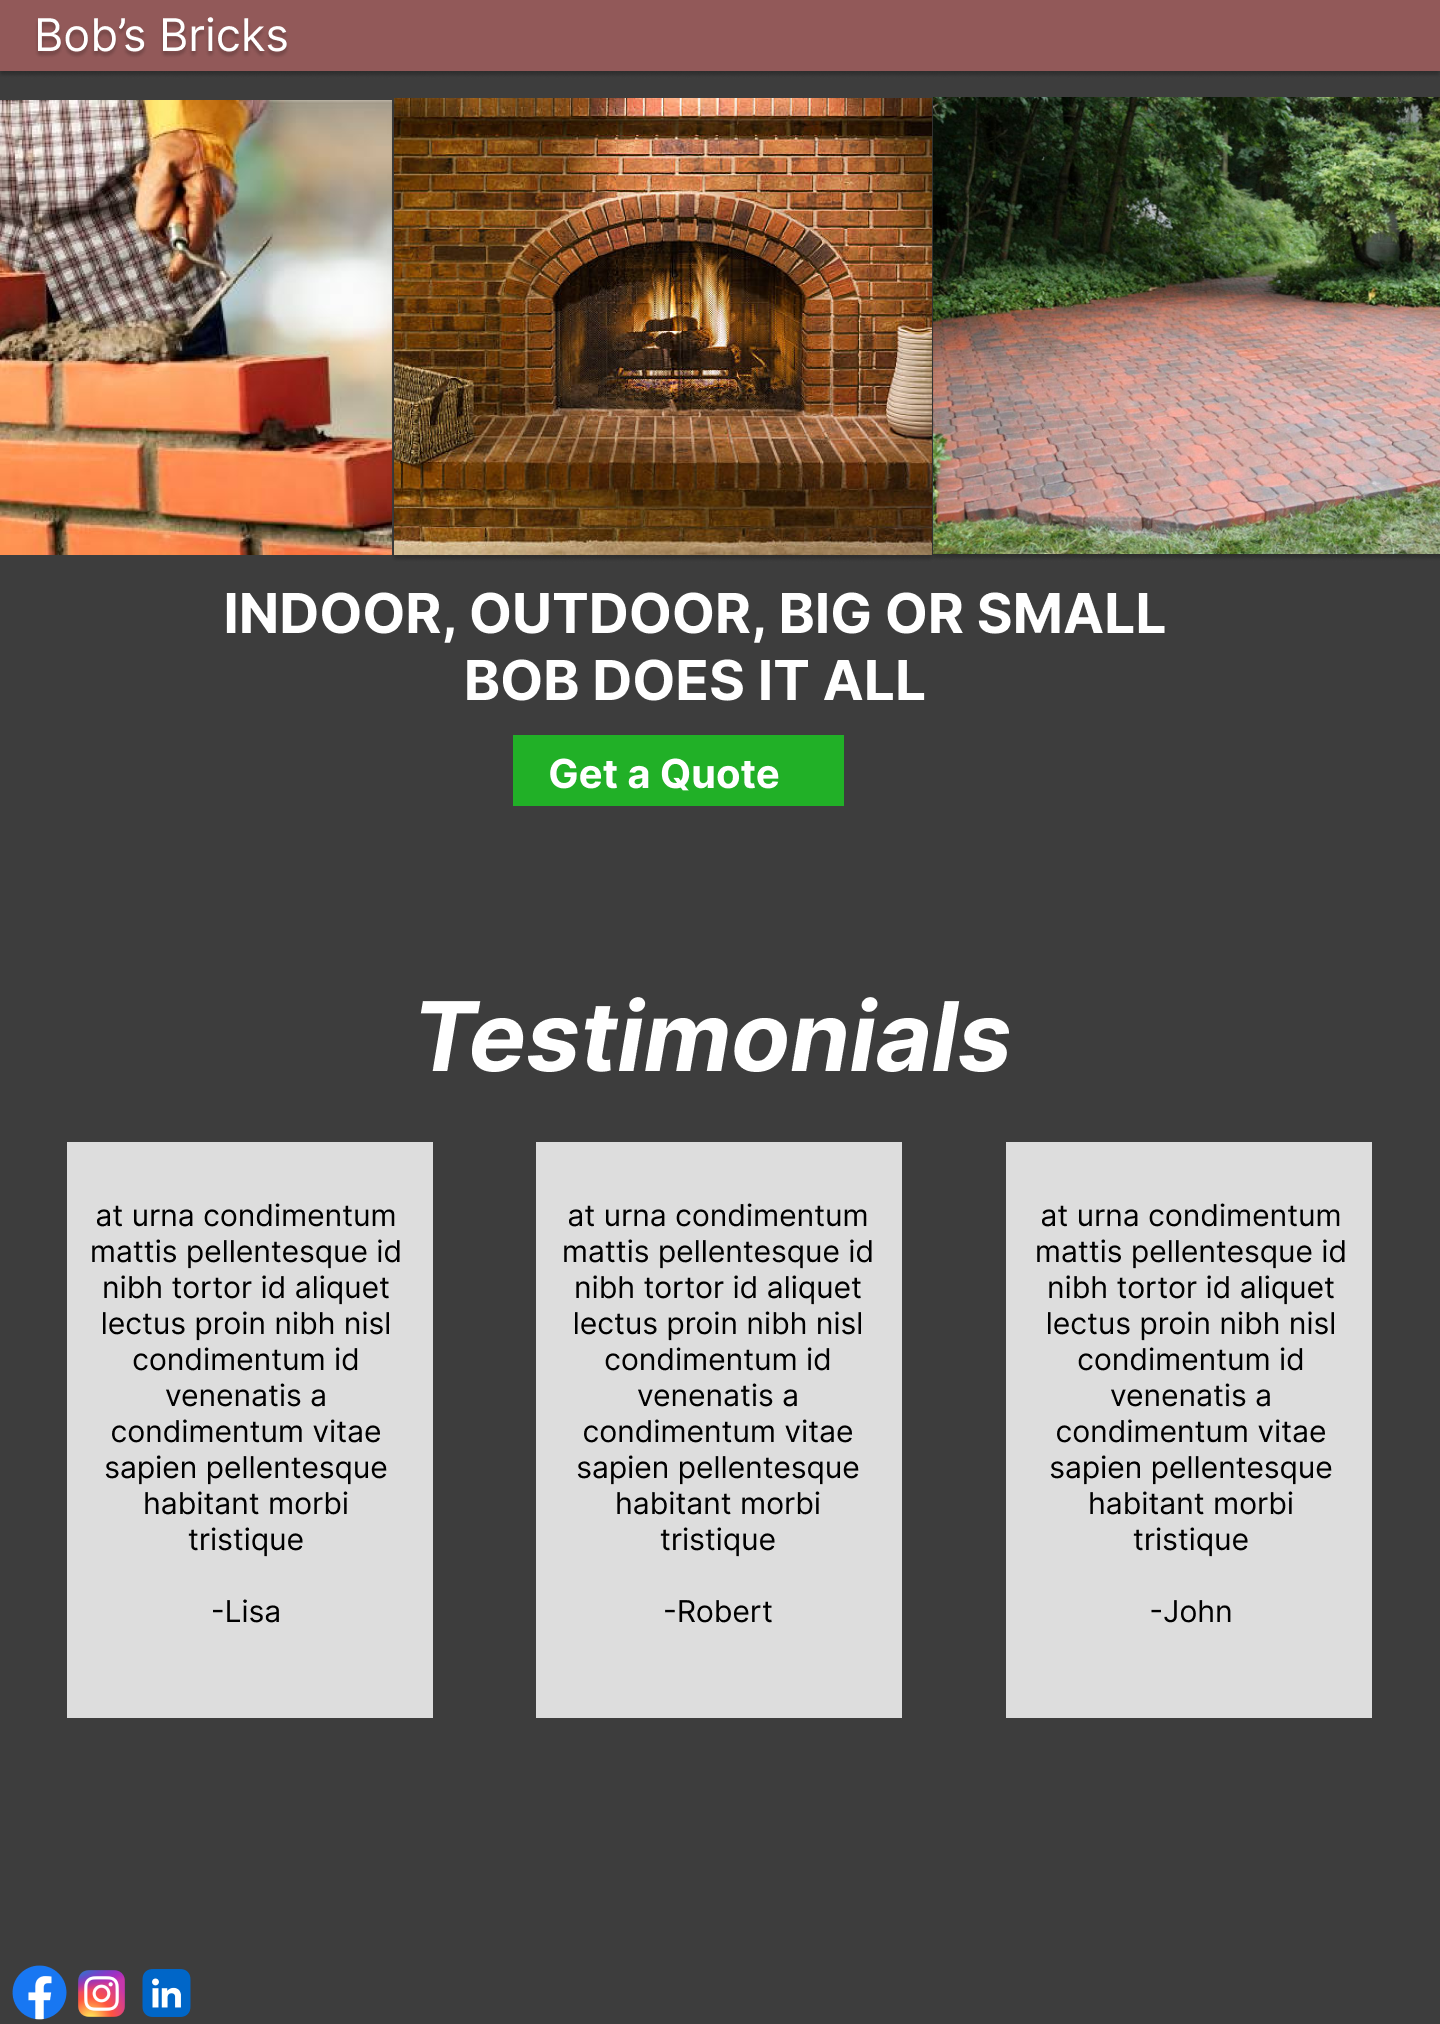
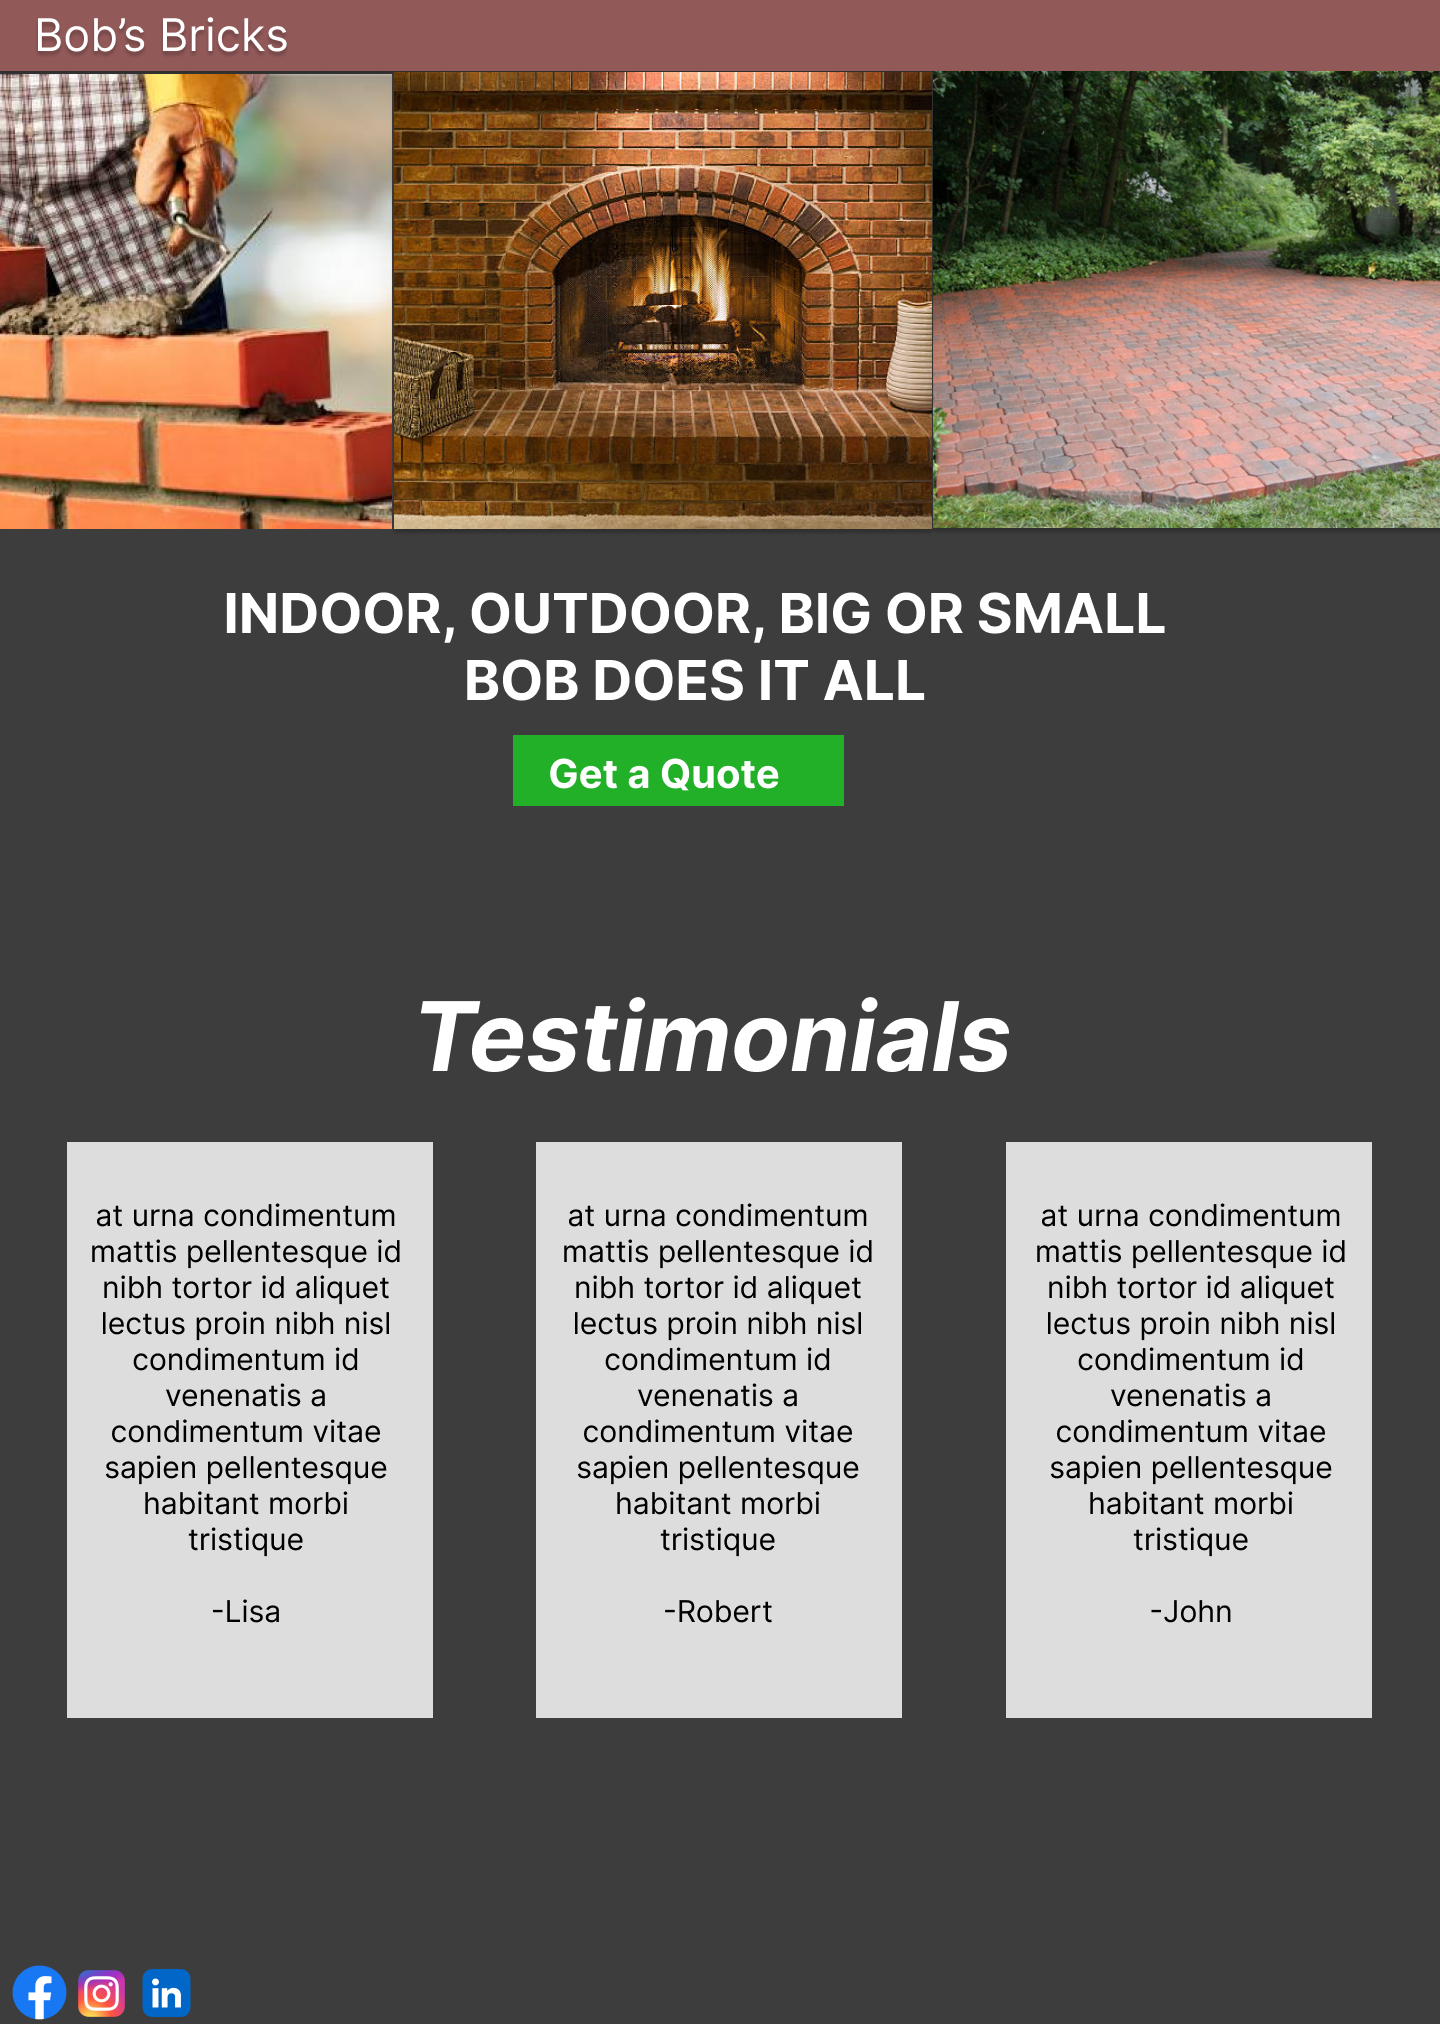
Finished the basic layout
Finished the basic design of the website and edited the design to look better.

Changed region(s): [[0.0, 0.0311, 1.0, 0.2801]]

diff --git a/index.html b/index.html
@@ -14,13 +14,26 @@
 
 </nav>
 
-<div class=" banner m-0 p-0">
-    <img src="./Images/brick-laying.jpg" class="top-imgs" alt="">
-        
-    <img src="./Images/fireplace.jpg" class="top-imgs fire"alt="">
+<div class="container-fluid">
+    <div class="row">
+        <div class="col-4 m-0 p-0">
+            <img src="./Images/brick-laying.jpg" class="top-imgs" alt="">
+        </div>
+        <div class="col-4 m-0 p-0">
+            <img src="./Images/fireplace.jpg" class="top-imgs fire"alt="">
 
+        </div>
+        <div class="col-4 m-0 p-0">
+            <img src="./Images/brick patio.jpeg" class="top-imgs" alt="">
+
+        </div>
+
+
+    </div>
+   
+        
     
-    <img src="./Images/brick patio.jpeg" class="top-imgs" alt="">
+    
         
     
 
@@ -30,9 +43,38 @@
     <button type="button" class="btn btn-success">Get a Quote</button>
 </div>
 
+<h1 class="test-head">Testimonials</h1>
+<div class="container-lg tests  p-0">
+    <div class="row">
+        <div class="col test">
+            <p>
+                <P>at urna condimentum mattis pellentesque id nibh tortor id aliquet lectus proin nibh nisl condimentum id venenatis a condimentum vitae sapien pellentesque habitant morbi tristique
 
-    
+                    <br><b>-Lisa</b>
+            </p>
+        </div>
+        <div class="col test">
+            <p>
+                at urna condimentum mattis pellentesque id nibh tortor id aliquet lectus proin nibh nisl condimentum id venenatis a condimentum vitae sapien pellentesque habitant morbi tristique
 
+                <br><b>-Robert</b>
+            </p>
+        </div>
+        <div class="col test">
+            <P>
+                
+            at urna condimentum mattis pellentesque id nibh tortor id aliquet lectus proin nibh nisl condimentum id venenatis a condimentum vitae sapien pellentesque habitant morbi tristique
+            <br><b>-John</b>
+            </P>
+        </div>
+    </div>
+</div>
+
+<div class="bottom">
+    <img src="./Images/facebook.png" alt="" srcset="" id="bottom-img">
+    <img src="./Images/instagram logo.webp" alt="" srcset="" id="bottom-img">
+    <img src="./Images/linkdin.png" alt="" srcset="" id="bottom-img">
+</div>
 
 
 </body>

diff --git a/style.css b/style.css
@@ -11,9 +11,9 @@ body{
 }
 .top-imgs{
 display:inline-block;
-
-    float: left;
-   width: 33.33vw;
+   margin: 0;
+   padding:0;
+   width: 33.3vw;
    height: 20rem;
 }
 
@@ -35,11 +35,48 @@ span{
     color:white;
     font-size: 3rem;
 }
+#bottom-img{
+    width: 3rem;
+    height: 3rem;
+}
+.test-head{
+    font-weight: bold;
+    font-style: italic;
+    margin-top: 5rem;
+    font-size: 5rem;
+    text-align: center;
+    color: white;
+}
+.tests{
+    margin-top: 4rem;
+    margin-bottom: 13rem;
+}
+.test{
+    display: flex;
+    margin-top: 2rem;
+    padding-top: 4rem;
+    padding-bottom: 4rem;
+    justify-content: center;
+    color: black;
+    font-size: 1.5rem;
+    background-color:rgba(221, 221, 221, 1);
+    margin-right:2rem;
+    margin-left: 2rem;
+    
+}
 
 
-  @media only screen and (max-width: 700px) {
+@media only screen and (max-width: 700px) {
+    .test-head{
+        font-size: 2rem;
+        margin-bottom: 0;
+        margin-top: 2rem;
+    }
+    .tests{
+        margin-top: 0;
+    }
     .top-imgs{
-        display: none;
+        height:10rem
     }
     #lg-txt{
         font-size: 1rem;
@@ -47,10 +84,9 @@ span{
     .btn{
         font-size: 1rem;
     }
-    .fire{
-        display: block;
-        width: 100vw;
-    }
+
+    
+
   }
 
 
